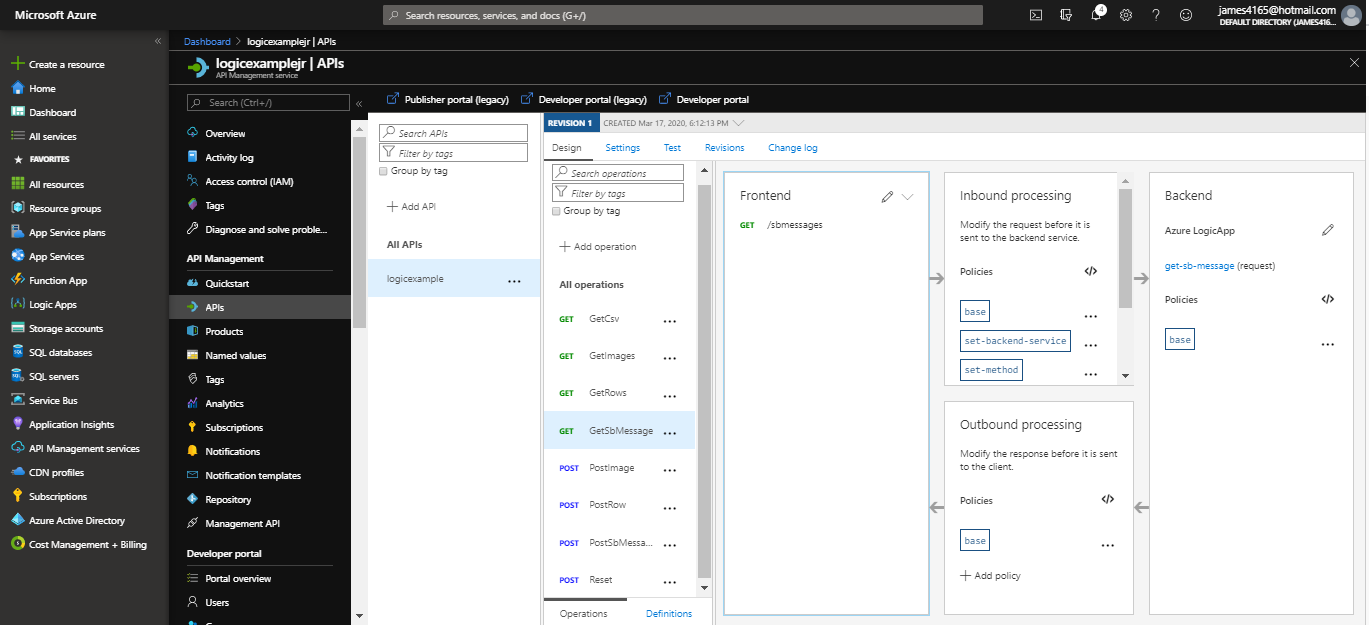
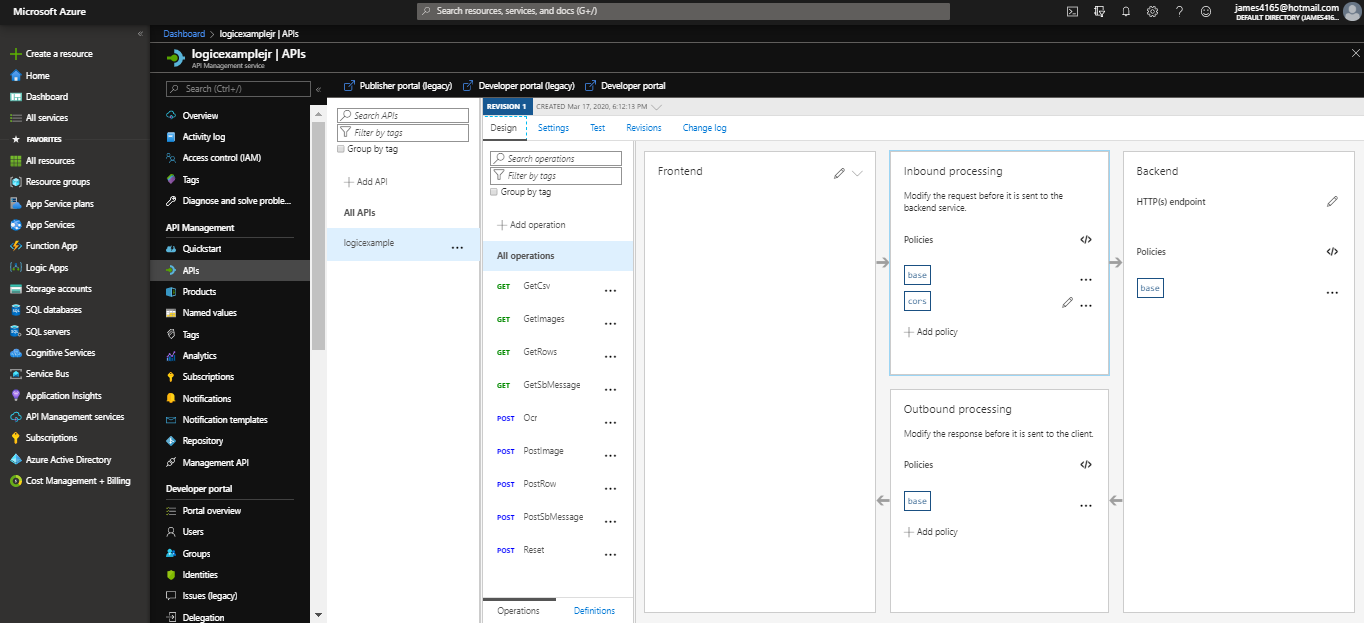
update

diff --git a/LogicExampleWebsite/js/index.js b/LogicExampleWebsite/js/index.js
@@ -38,6 +38,10 @@ app.main = {
             self.createSbMessage();
         });
 
+        $("#get-ocr-button").click(function () {
+            self.ocrImage();
+        });
+
         this.resetTable();
         this.addImagesToOutput();
         this.getSbMessages();
@@ -75,8 +79,7 @@ app.main = {
 
     getCsv: function() {
         app.ajax.getCsv(function (csv) {
-            var csvStr = "<h5 class='mt-5'>SQL Data as CSV</h5>" +
-                "<textarea style='height: 200px; width: 200px;' spellcheck=false>" + csv + "</textarea>";
+            var csvStr = "<textarea style='height: 200px; width: 200px;' spellcheck=false>" + csv + "</textarea>";
 
             $("#csv-container").empty().append(csvStr);
         });
@@ -95,8 +98,6 @@ app.main = {
         });
     },
 
-
-
     addRowsToTableOutput: function (data) {
         var rows = "";
         for (var i = 0; i < data.length; i++) {
@@ -110,11 +111,21 @@ app.main = {
         var self = this;
 
         app.ajax.getImages(function (blobs) {
+
+            // images
             var images = "";
             for (var i = 0; i < blobs.length; i++) {
-                images += '<img src="' + self.blobStorageUrl + '/images/' + blobs[i].Name + '" height="100" width="100"></img>';
+                images += '<img class="m-2" src="' + self.blobStorageUrl + '/images/' + blobs[i].Name + '" height="100" width="100"></img>';
             }
             $("#image-container").empty().append(images);
+
+            // ocr dropdown
+            var dropdown = "<select id='select-ocr-path' class='form-control mb-3'>";
+            for (var i = 0; i < blobs.length; i++) {
+                dropdown += '<option value="' + self.blobStorageUrl + '/images/' + blobs[i].Name + '">' + blobs[i].Name + '</option>';
+            }
+            dropdown += "</select>"
+            $("#ocr-images-container").empty().append(dropdown);
         });
     },
 
@@ -130,7 +141,14 @@ app.main = {
         });
     },
 
+    ocrImage: function () {
+        var imagePath = $("#select-ocr-path").val();
+        app.ajax.imageOcr(imagePath, function (ocrText) {
+            var textarea = "<textarea style='height: 300px; width: 300px;' spellcheck=false>" + ocrText + "</textarea>";
 
+            $("#ocr-text-container").empty().append(textarea);
+        });
+    },
 
     resetTable: function () {
         var self = this;
@@ -144,7 +162,7 @@ app.main = {
         var self = this;
 
         if (confirm("This will reset all the data back to its original state")) {
-            app.ajax.reset(true, true, true, function ()
+            app.ajax.reset(true, true, function ()
             {
                 alert("Reset complete");
                 self.resetTable();

diff --git a/LogicExampleWebsite/index.html b/LogicExampleWebsite/index.html
@@ -6,6 +6,15 @@
     <link rel="stylesheet" href="https://stackpath.bootstrapcdn.com/bootstrap/4.4.1/css/bootstrap.min.css" integrity="sha384-Vkoo8x4CGsO3+Hhxv8T/Q5PaXtkKtu6ug5TOeNV6gBiFeWPGFN9MuhOf23Q9Ifjh" crossorigin="anonymous">
 
     <style>
+        h3 {
+            color: #1e90ff;
+        }
+
+        h5 {
+            color: #555;
+            text-decoration: underline;
+        }
+
         th, td {
             padding: 2px 15px;
         }
@@ -55,15 +64,21 @@
                     <button type="submit" class="btn btn-primary">Create Message</button>
                 </form>
 
-                <!-- Get sql as csv -->
+                <!-- Get SQL as CSV -->
                 <h5 class="mt-5">Get SQL data as CSV</h5>
                 <button class="btn btn-primary" id="get-csv-button">Get CSV</button>
+
+                <!-- Image OCR -->
+                <h5 class="mt-5">Cognitive Services extract text from image</h5>
+                <p>First upload an image in the "upload image" section above that contains text.  Then select an image from the dropdown menu below, then click Get Text from Image button</p>
+                <div id="ocr-images-container" class="mt-2"></div>
+                <button class="btn btn-primary" id="get-ocr-button">Get Text from Image</button>
             </div>
 
 
             <!-- Data in Azure -->
             <div class="col-md-5">
-                <h3>Data in Azure</h3>
+                <h3>Outputs</h3>
 
                 <!-- sql database -->
                 <h5 class="mt-4">SQL Database</h5>
@@ -78,7 +93,7 @@
                 </table>
 
                 <!-- blob storage -->
-                <h5 class="mt-5">Blob Storage</h5>
+                <h5 class="mt-5">Uploaded Images</h5>
                 <div id="image-container" class="mt-2"></div>
 
                 <!-- service bus -->
@@ -86,7 +101,12 @@
                 <div id="sb-container"></div>
 
                 <!-- csv -->
+                <h5 class='mt-5'>SQL Data as CSV</h5>
                 <div id="csv-container" class="mt-2"></div>
+
+                <!-- csv -->
+                <h5 class='mt-5'>OCR Extracted Text</h5>
+                <div id="ocr-text-container" class="mt-2"></div>
             </div>
         </div>
     </div>

diff --git a/LogicExampleWebsite/js/ajax.js b/LogicExampleWebsite/js/ajax.js
@@ -125,13 +125,29 @@ app.ajax = {
 
     // Other
 
-    reset: function (db, blob, serviceBus, callback) {
+    imageOcr: function (imagePath, callback) {
+        $.ajax({
+            method: "POST",
+            url: this.apiManagementUrl + "/ocr",
+            contentType: "application/json",
+            data: JSON.stringify({ "imageUrl": imagePath }),
+            success: function (res) {
+                callback(res);
+            },
+            error: function (err) {
+                console.log(err);
+                alert("Error using OCR on image");
+            }
+        });
+    },
+
+    reset: function (db, blob, callback) {
         $.ajax({
             method: "POST",
             url: this.apiManagementUrl + "/reset",
             contentType: "application/json",
             dataType: "json",
-            data: JSON.stringify({ "db": db, "blob": blob, "serviceBus": serviceBus }),
+            data: JSON.stringify({ "db": db, "blob": blob }),
             success: function (res) {
                 callback();
             },

diff --git a/README.md b/README.md
@@ -1,6 +1,6 @@
 ## Azure API Management Example
 
-Small example of some various azure services
+Small example of some various azure services called through the API management service
 
 https://logicexample.z8.web.core.windows.net/
 
@@ -8,10 +8,8 @@ https://logicexample.z8.web.core.windows.net/
 
 ![logicexample](images/logicexample.png)
 
+![resgroup](images/resgroup.PNG)
+
 ![apim](images/apim.PNG)
 
 ![functions](images/functions.PNG)
-
-![logic](images/logic.PNG)
-
-![resgroup](images/resgroup.PNG)
